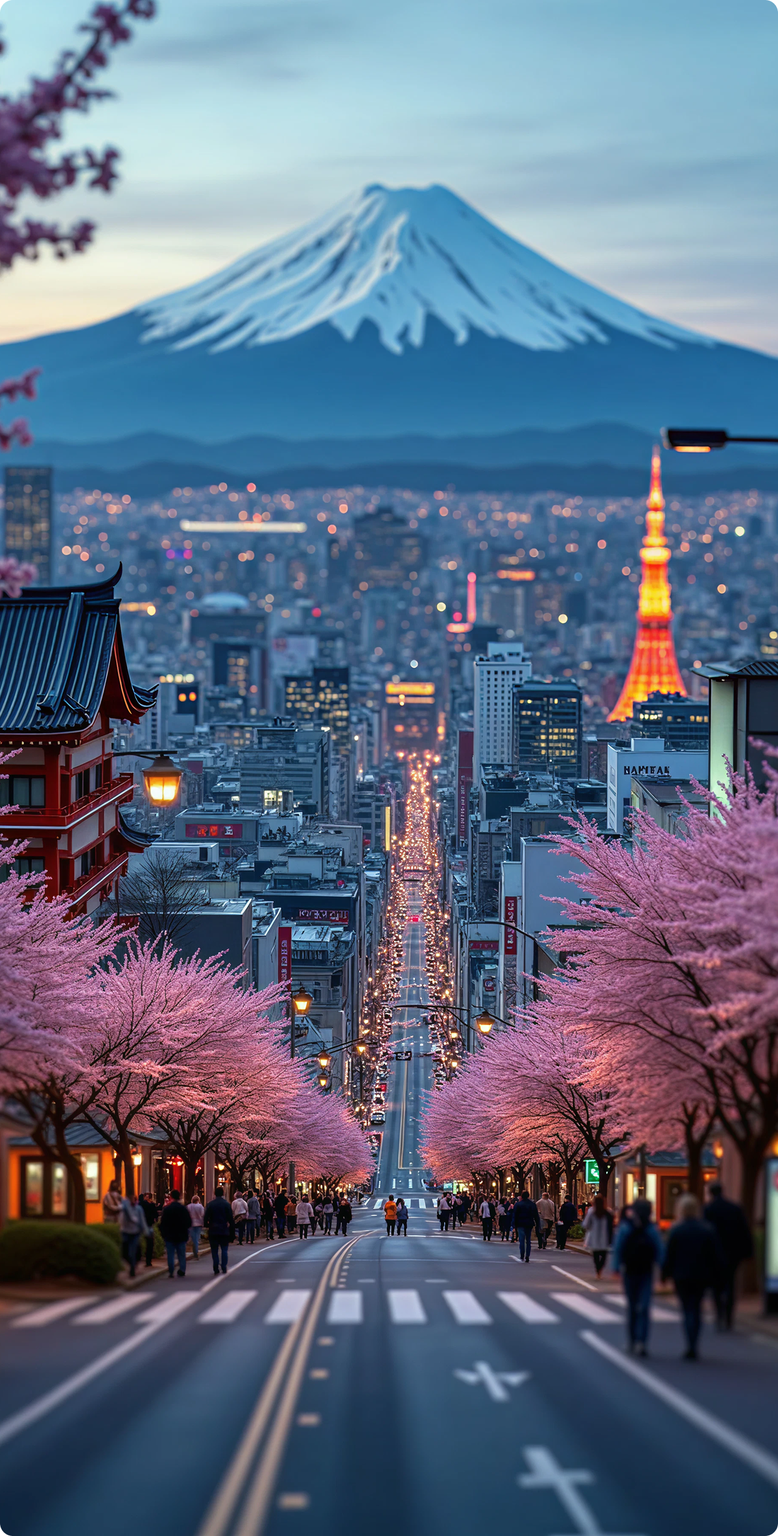
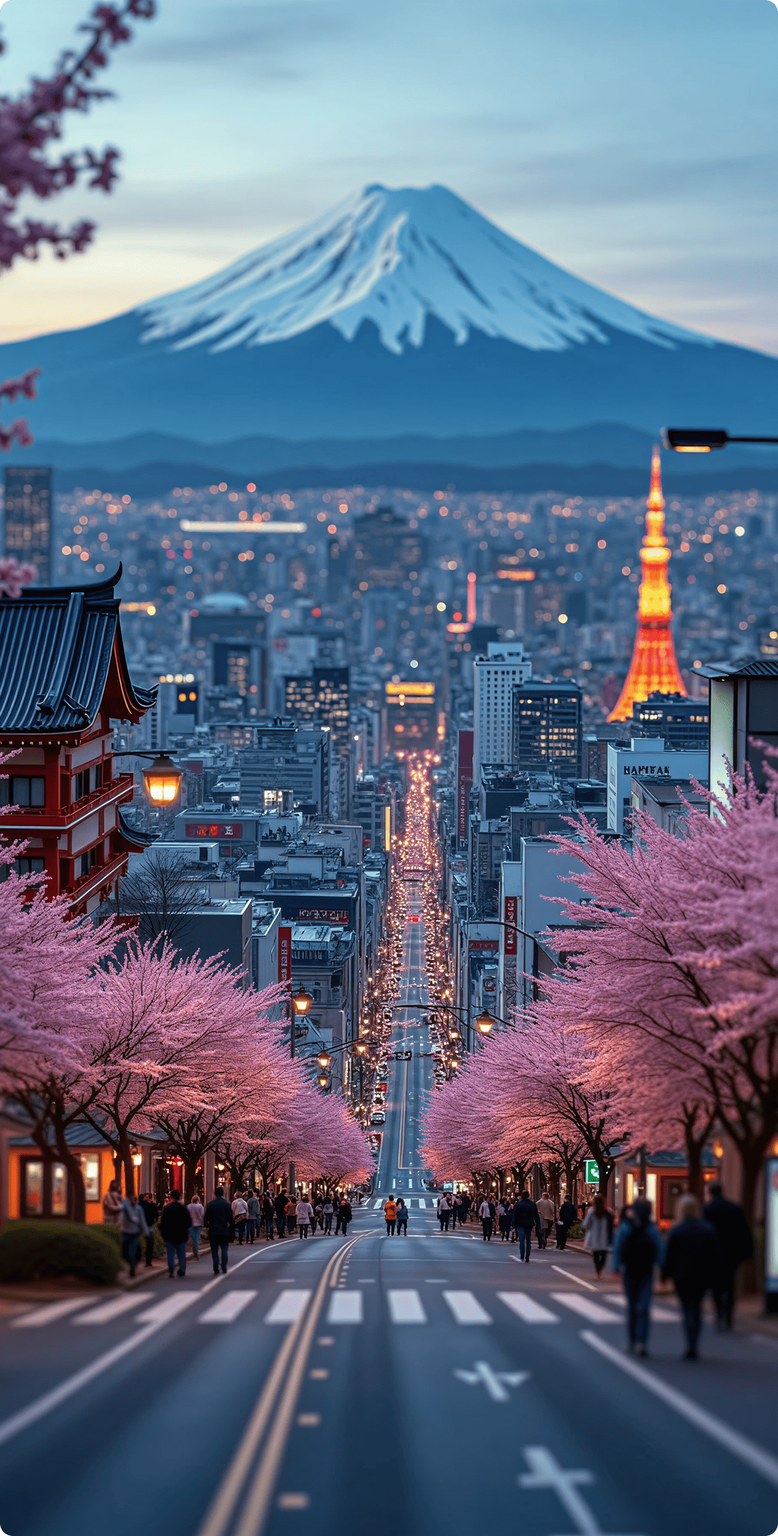
이미지 용량 압축 버전 교체 및 screen 파라미터 수정

diff --git a/app/prototype/home/page.tsx b/app/prototype/home/page.tsx
@@ -16,7 +16,7 @@ export default function HomePage() {
   function handleSearch() {
     const q = query.trim();
     if (!q || !city) return;
-    trackEvent('search_submit', { city, query: q, query_length: q.length });
+    trackEvent('search_submit', { city, query: q, query_length: q.length, screen: 'home' });
     // 결과 페이지로 이동 (쿼리/도시를 URL로 전달)
     const params = new URLSearchParams({ q, city });
     router.push(`/prototype/result?${params.toString()}`);

diff --git a/app/prototype/explore/page.tsx b/app/prototype/explore/page.tsx
@@ -160,6 +160,7 @@ export default function ExplorePage() {
   function handleSearch() {
     const q = searchQuery.trim();
     if (!q) return;
+    trackEvent('search_submit', { query: q, query_length: q.length, screen: 'explore' });
     const params = new URLSearchParams({ q });
     if (selections.city) params.set('city', selections.city);
     router.push(`/prototype/result?${params.toString()}`);

diff --git a/app/prototype/result/page.tsx b/app/prototype/result/page.tsx
@@ -272,6 +272,7 @@ function ResultInner() {
 
   const handleNewSearch = () => {
     if (!inputValue.trim() || loading) return;
+    trackEvent('search_submit', { query: inputValue.trim(), query_length: inputValue.trim().length, screen: 'result' });
     runSearch(inputValue);
     setInputValue('');
   };
